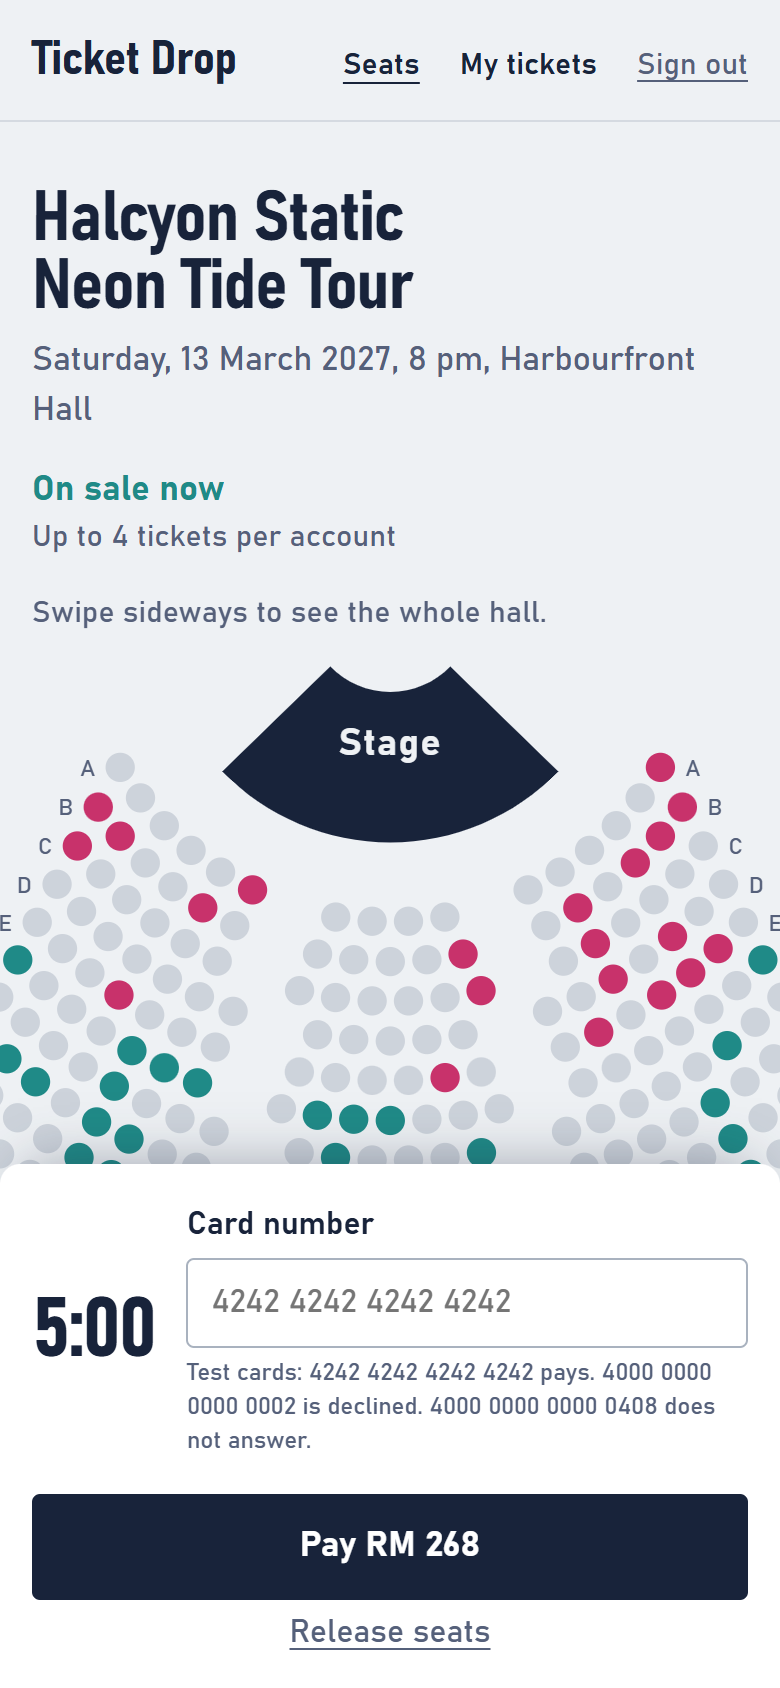
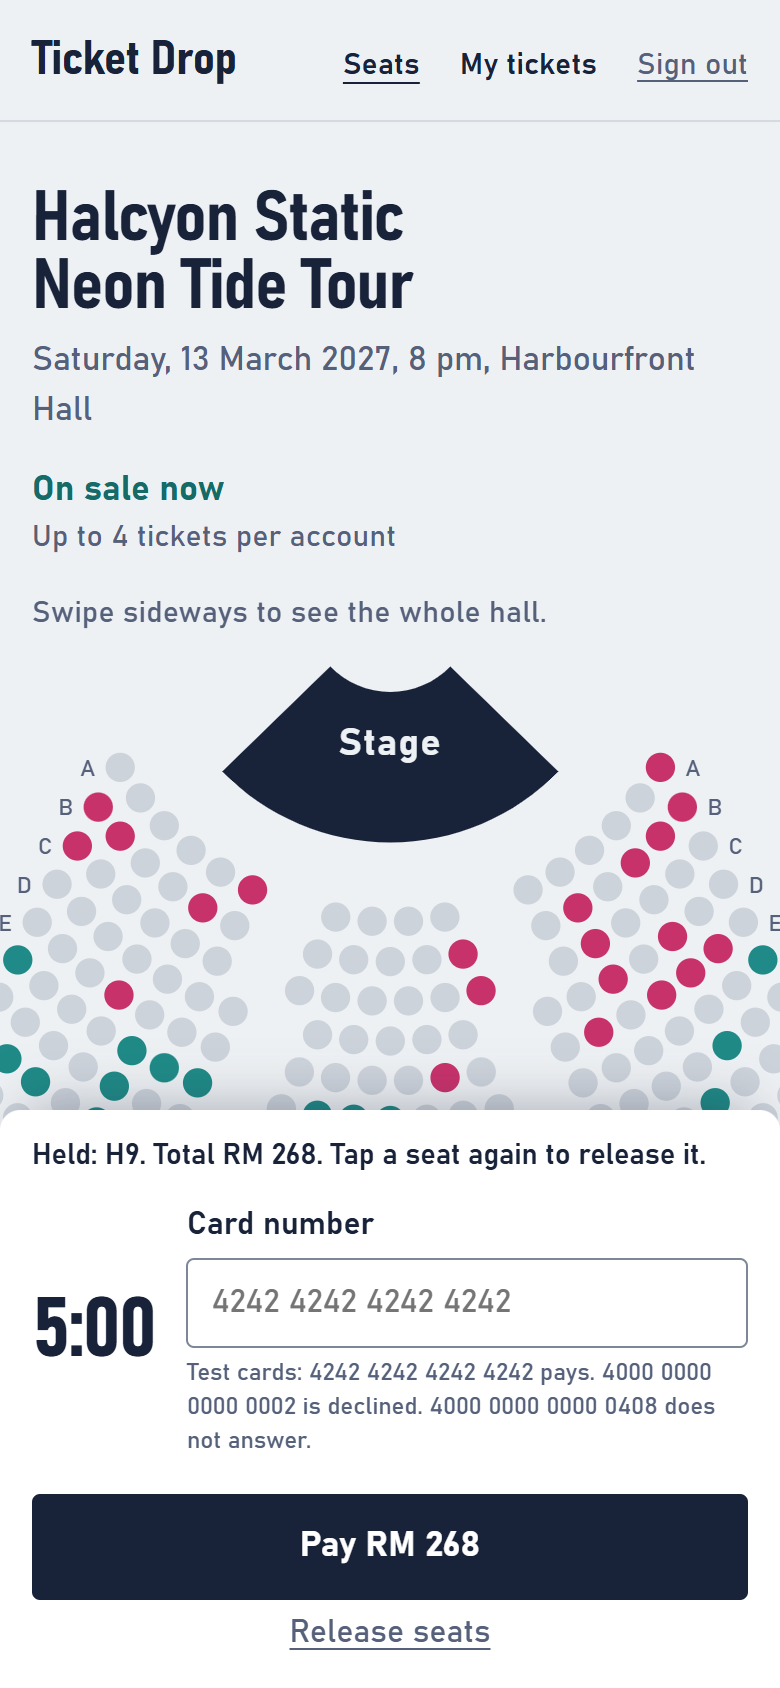
docs: fix the last inaccuracies found by the independent checkers
Plain-text 400 for a foreign Host, the phone strip's real share of the screen, decision-table cells actually covered, image sizes on the showcase, the CI row, and a recaptured phone screenshot with the held-seat line.

diff --git a/site/index.html b/site/index.html
@@ -39,7 +39,7 @@
   </section>
 
   <figure class="shot">
-    <img src="assets/seat-map-hold.png" alt="The seat map signed in as Le Jie, with two seats in row C held, and a ticket stub on the right showing the seats, a total of RM 776 and a countdown at 5:00" width="1366" height="860">
+    <img src="assets/seat-map-hold.png" alt="The seat map signed in as Le Jie, with two seats in row C held, and a ticket stub on the right showing the seats, a total of RM 776 and a countdown at 5:00" width="1366" height="944">
     <figcaption>Two seats held. The timer counts down on the server's clock; grey seats are taken, about half of them by sample accounts.</figcaption>
   </figure>
 
@@ -58,7 +58,7 @@
 
   <section class="block pair">
     <figure>
-      <img src="assets/payment-declined.png" alt="The page after a declined card: a red message says the card was declined and the seats are still held" width="1366" height="860">
+      <img src="assets/payment-declined.png" alt="The page after a declined card: a red message says the card was declined and the seats are still held" width="1366" height="1024">
       <figcaption>A declined card charges nothing and keeps the seats until the hold ends.</figcaption>
     </figure>
     <figure class="phone">

diff --git a/docs/TEST_PLAN.md b/docs/TEST_PLAN.md
@@ -49,7 +49,7 @@ Impact: what happens to a fan or to money if the requirement fails. Likelihood: 
 |---|---|---|
 | Boundary value analysis | R1, R3, R4 | Hold valid at 299 999 ms, ended at exactly 300 000 ms; sale closed at opening minus 1 ms, open at the opening instant; 4 seats allowed, the fifth refused |
 | Equivalence partitioning | R12 | Seat IDs: valid, wrong row letter, lower case, wrong digit count, injection-shaped text, wrong JSON type |
-| Decision table | R6, R7 | Card outcome (pay, decline, timeout) by key (new, repeated) by hold (open, expired, none) |
+| Decision table | R6, R7 | Card outcome (pay, decline, timeout) by key (new, repeated) by hold (open, expired, none). Covered: every outcome with a new key on an open hold; repeated keys for all three outcomes on an open hold; a repeated paid key after expiry. Not covered: a repeated declined or timed-out key after the hold has expired |
 | State transition | R4 to R7, R13 | Hold states below |
 | Error guessing and negative testing | R8, R9, R12 | A client-sent price, another account's ticket ID, a key reused across accounts |
 | Concurrency testing | R2, R3, R7 | 50 fans on one seat; 10 parallel claims by one fan; 5 parallel Pay clicks |
@@ -83,7 +83,7 @@ Each row has at least one API test. The rows on error paths also have browser te
 | R6 | `test_checkout` (4), `test_checkout_recovery` (2) | | | `test_declined_card_keeps_the_seats`, `test_pressing_enter_twice_sends_one_payment` | | seats kept after failure |
 | R7 | `test_checkout` (6: success, decline and timeout replays, replay after the expiry, a key refused for a different hold twice), settle recovery | key scoped to account | double click, parallel retries | `test_retry_after_a_server_error_reuses_the_payment_key`, `test_a_kept_payment_key_is_not_reused_for_different_seats` | | repeated key |
 | R8 | `test_the_client_cannot_set_the_price` | | | | money matches tickets | money matches tickets |
-| R9 | `test_auth` (every account route, missing and made-up token), `test_tickets` | `test_access_control` (6), foreign `Host` refused on the real server | | | | cross-account access |
+| R9 | `test_auth` (every account route, missing and made-up token), `test_tickets` | `test_access_control` (5 cross-account tests), foreign `Host` refused on the real server | | | | cross-account access |
 | R10 | | `test_abuse_and_headers` (5) | | | 429 counted as correct | rapid changes |
 | R11 | `test_holds` | | | map states in every journey | | map versus database |
 | R12 | `test_validation` (bodies, address IDs, cards, keys, error shape for unknown addresses), generated inputs | | | | no 5xx | no 5xx |

diff --git a/docs/DEFECTS.md b/docs/DEFECTS.md
@@ -77,7 +77,7 @@ A reporting bug was found at the same time: the summary copied Locust's `Request
 
 **Fix.** Seats hide the default outline and show keyboard focus with a ring that follows the circle (`.seat.focused`).
 
-**Correction.** This entry used to say `test_seats_can_be_chosen_with_the_keyboard_only` showed that focus stays visible. It did not: it checks which seat has focus, not what is drawn. A later review found that tabbing into the map drew no ring at all, because the ring was added only on arrow keys (DEF-013). `test_tabbing_into_the_map_shows_a_focus_ring` now checks the class and that the computed ring differs from an unfocused seat.
+**Correction.** This entry used to say `test_seats_can_be_chosen_with_the_keyboard_only` showed that focus stays visible. It did not: it checks which seat has focus, not what is drawn. A later review found that tabbing into the map drew no ring at all, because the ring was added only on arrow keys (DEF-013). `test_tabbing_into_the_map_shows_a_focus_ring` now checks the class within one second and that the focused seat's computed stroke differs from an unfocused seat of the same category (A-02), which has no stroke of its own.
 
 ## DEF-006: generator crashed printing its own report
 
@@ -143,7 +143,7 @@ A reporting bug was found at the same time: the summary copied Locust's `Request
 
 **Found by** looking at the real screenshots taken for the documentation, not by a test: at 390 px wide the wordmark broke onto two lines, and the docked payment strip covered about 45 percent of the screen, hiding most of the seat map.
 
-**Fix.** On phones the "Signed in as" text and the timer note are hidden, the test-card help is smaller, and the timer sits beside the card field. The strip now covers about 29 percent of the screen. `test_phone_layout_docks_the_payment_strip` still checks that the strip is docked to the bottom edge and the Pay button is visible; a test cannot judge "crowded", which is why screenshots are reviewed by eye.
+**Fix.** On phones the "Signed in as" text and the timer note are hidden, the test-card help is smaller, and the timer sits beside the card field. The strip covered about 29 percent of the screen after this fix; the held-seat summary added later (DEF-013) makes it about 34 percent. `test_phone_layout_docks_the_payment_strip` still checks that the strip is docked to the bottom edge and the Pay button is visible; a test cannot judge "crowded", which is why screenshots are reviewed by eye.
 
 ## DEF-012: the page dropped its payment key after a server error
 

diff --git a/docs/VERIFICATION.md b/docs/VERIFICATION.md
@@ -15,7 +15,7 @@ What was actually run, what it showed, and what it does not show. Every figure h
 
 ## 2. Automated tests
 
-Final full run on the final code, in a fresh virtual environment built in `%TEMP%` from `requirements.txt` alone, which is what `requirements-lock.txt` was frozen from (Python 3.12.10, Playwright 1.64.1): `python -m pytest`, 4 November 2026 11:20 to 11:24 (+08:00), **197 passed in 185 s**. An earlier run in the same environment, before the documentation changes, also passed 197 in 180 s.
+Final full run on the final code, in a fresh virtual environment built in `%TEMP%` from `requirements.txt` alone, which is what `requirements-lock.txt` was frozen from (Python 3.12.10, Playwright 1.64.1): `python -m pytest`, 4 November 2026 11:20 to 11:24 (+08:00), **197 passed in 185 s**. An earlier run in the same environment, before the documentation changes, also passed 197 in 180 s. After the last checker fixes (a stronger focus-ring comparison and recaptured screenshots), the suite was run again in the project environment: 4 November 2026 11:49 to 11:52 (+08:00), **197 passed in 155 s**.
 
 | Suite | Tests | What it checks |
 |---|---|---|
@@ -79,7 +79,7 @@ Real defects and investigations are in [DEFECTS.md](DEFECTS.md): thirteen entrie
 | Keyboard operation of the seat map | Tested for one path; no screen-reader testing |
 | Payment | Simulated by a mock gateway; no real provider was integrated |
 | AI-generated data and exploration | Measured on one small local model: one seed for data generation, three seeds per fault for exploration; not a general claim about language models |
-| Hosted CI (`.github/workflows/ci.yml`) | Published as a private repository; hosted CI results are not recorded here |
+| Hosted CI (`.github/workflows/ci.yml`) | Runs on GitHub for pull requests and pushes to main; its results are not recorded in this document |
 | Showcase page on GitHub Pages | Prepared; whether it has been published is not recorded here |
 | Production readiness, capacity, accessibility compliance | Not claimed |
 

diff --git a/docs/DESIGN.md b/docs/DESIGN.md
@@ -20,7 +20,7 @@ How version 1 of Ticket Drop actually works. The product contract is in [BRIEF.m
 | Database | `app/db.py` | Schema, connections, seed data, optional sample sales |
 | Seeded faults | `app/faults.py` | Named deliberate bugs, all off unless enabled for an experiment |
 
-The server listens on 127.0.0.1 only and answers only to the host names `127.0.0.1` and `localhost` (plus `testserver` for the in-process tests); any other `Host` header gets 400, so a page that rebinds its own DNS name to 127.0.0.1 cannot use the API. One process owns one SQLite file in WAL mode.
+The server listens on 127.0.0.1 only and answers only to the host names `127.0.0.1` and `localhost` (plus `testserver` for the in-process tests); any other `Host` header gets 400, so a page that rebinds its own DNS name to 127.0.0.1 cannot use the API. That 400 is plain text from the middleware, the one answer that does not use the JSON error shape. One process owns one SQLite file in WAL mode.
 
 ## 2. One operation end to end: holding a seat
 
